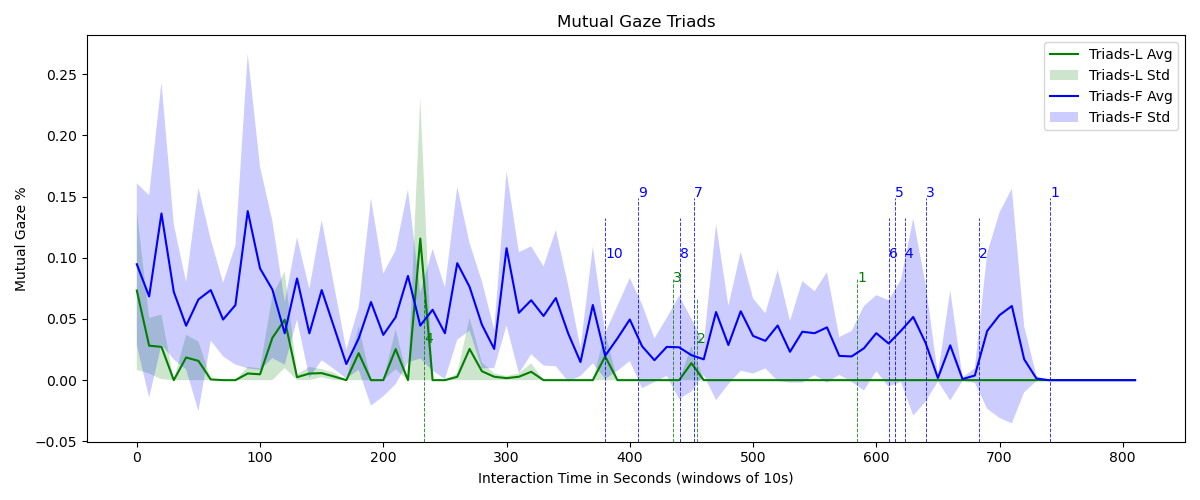
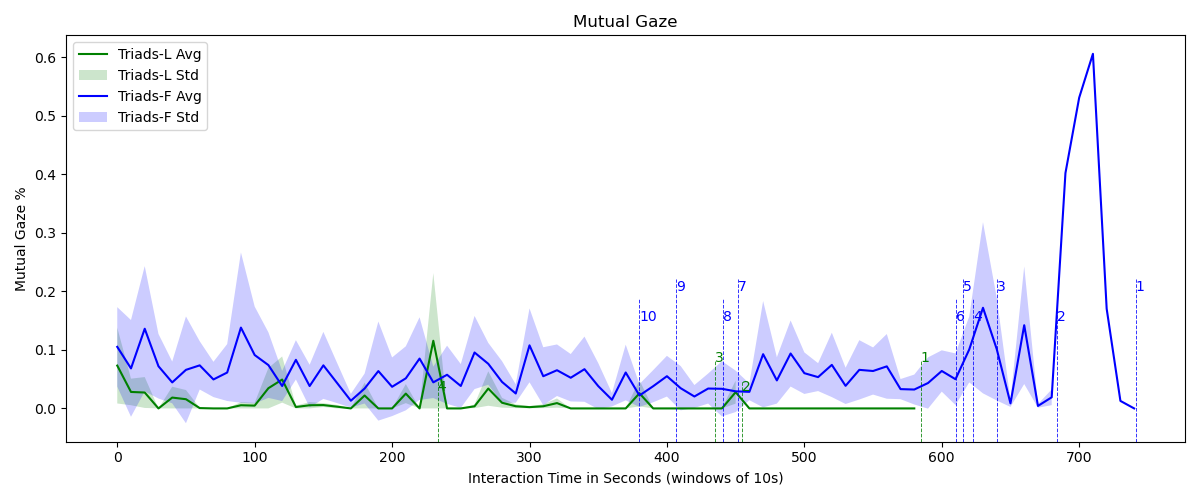
fixed a problem with the triads sum as it would add all nan to 0. now sum of nan results in nan.

diff --git a/plotting/plotting_eye_data.py b/plotting/plotting_eye_data.py
@@ -87,7 +87,7 @@ def sum_triads_MG_per_group(main_df: pd.DataFrame, group_names:list):
     df_triads_MG_summed = pd.DataFrame(index=main_df.index)
     for triad_name in group_names:
         columns_MG = list(main_df.filter(regex=triad_name).columns)
-        df_triads_MG_summed[columns_MG[0]] = main_df[columns_MG].sum(axis=1) #keeping the name of the first MG as it is used further in the code and it works like that for the dyads too
+        df_triads_MG_summed[columns_MG[0]] = main_df[columns_MG].sum(axis=1,min_count=1) #keeping the name of the first MG as it is used further in the code and it works like that for the dyads too
     return df_triads_MG_summed
 
 
@@ -159,13 +159,13 @@ def create_line_plot(file_path:str, timewindow:int = 30, save_plot = False,
             ax = plot_avg_and_std_to_existing_graph(ax=ax, main_df=df_triads_l, df_column_avg='Triads-L Avg',
                                                     df_column_std='Triads-L Std',
                                                     list_interaction_duration_descending_order=triads_durations_l,
-                                                    line_colour='green', text_y=0.08, line_y=0.4,
+                                                    line_colour='green', text_y=0.08, line_y=0.2,
                                                     fill_alpha=0.2, fill_color='green')
 
             ax = plot_avg_and_std_to_existing_graph(ax=ax, main_df=df_triads_f, df_column_avg='Triads-F Avg',
                                                     df_column_std='Triads-F Std',
                                                     list_interaction_duration_descending_order=triads_durations_f,
-                                                    line_colour='blue', text_y=0.15, line_y=0.6,
+                                                    line_colour='blue', text_y=0.2, line_y=0.4,
                                                     fill_alpha=0.2, fill_color='blue')
 
         else:
@@ -196,6 +196,6 @@ if __name__ == "__main__":
     root_path= "../Recordings/SavedData/"
     all_groups_MG_df_path = root_path+"all_groups_mutual_gaze_interaction_time.csv"
 
-    create_line_plot(all_groups_MG_df_path, timewindow=1,
+    create_line_plot(all_groups_MG_df_path, dyads=False, timewindow=10, separate_by_group_formation=True,
                      y_axis_text="Mutual Gaze %",
                      figure_title="Mutual Gaze")
